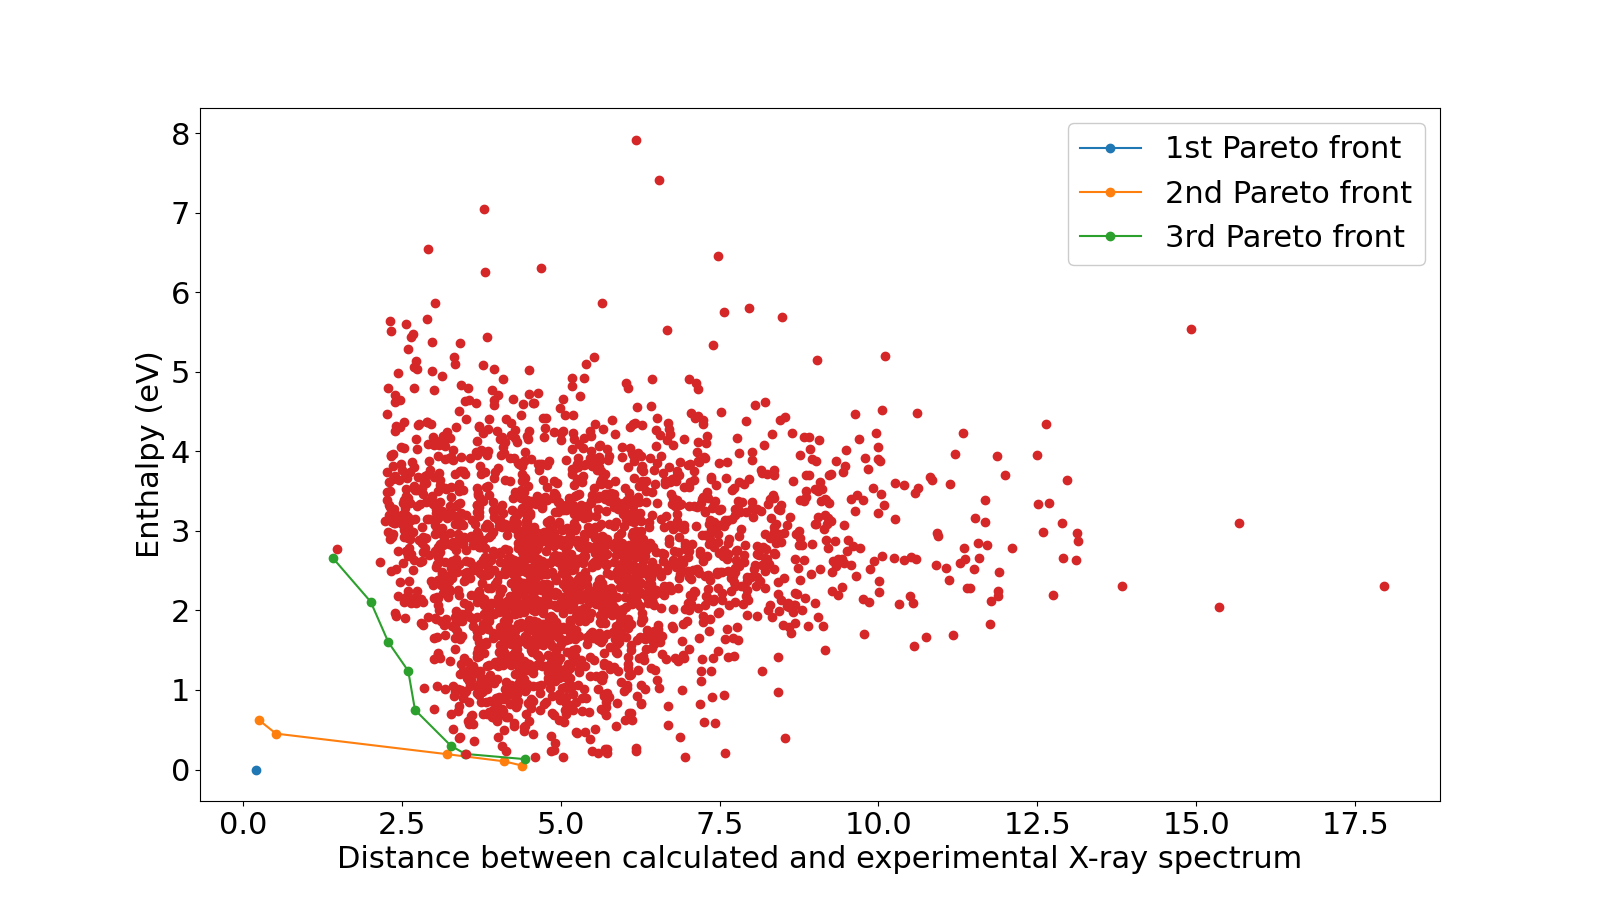
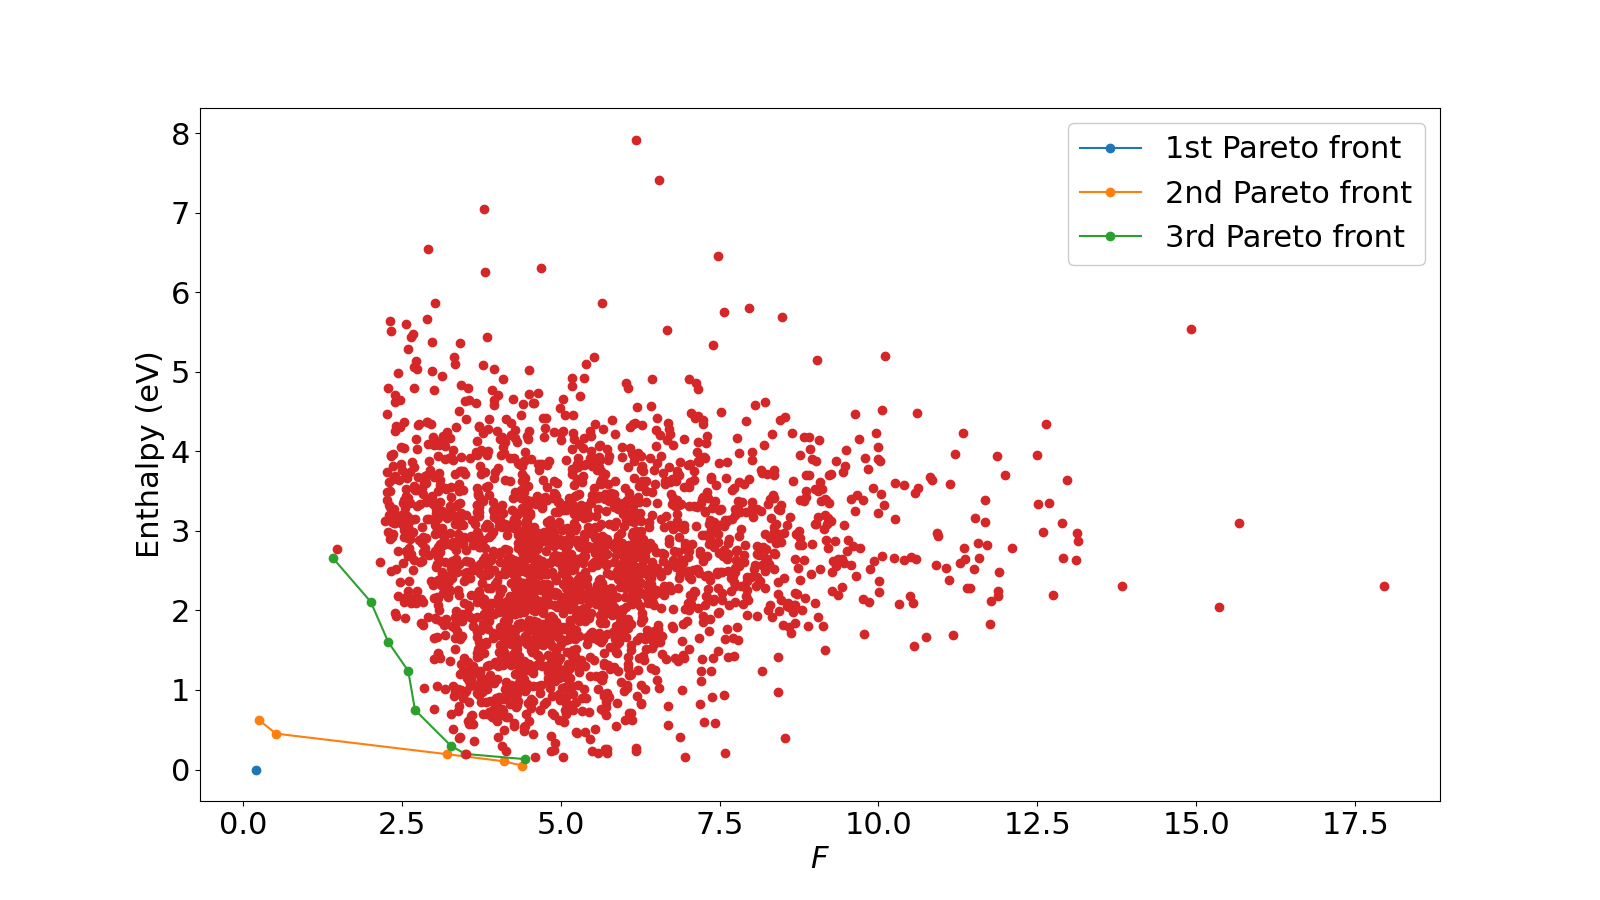
Now pareto picture can be used also in the single crystal case

Changed region(s): [[0.2188, 0.9333, 0.8125, 0.9644]]

diff --git a/xrpostproc/pareto_picture/pareto_picture.py b/xrpostproc/pareto_picture/pareto_picture.py
@@ -18,12 +18,13 @@ plt.rcParams.update({'font.size': 22})
 # input parameters
 wavelength = 1.5406
 work_dir = 'KTaWO6_0gpa'
-spectrum_file = 'subtracted_KTaWO6_0GPa.txt'
+spectrum_file = 'subtracted_KTaWO6_0GPa.txt'        # None for single crystal
 
-poscars_iterator = iterator_poscar_file(os.path.join(work_dir, 'goodStructures_POSCARS'))
+if spectrum_file:
+    poscars_iterator = iterator_poscar_file(os.path.join(work_dir, 'goodStructures_POSCARS'))
 
-# in this folder I will save the produced pictures
-os.mkdir(os.path.join(work_dir, 'pareto_fronts'))
+    # in this folder I will save the produced pictures
+    os.mkdir(os.path.join(work_dir, 'pareto_fronts'))
 
 p_frontsX, p_frontsY = [[]], [[]]
 with open(os.path.join(work_dir, 'goodStructures'), 'r') as f:
@@ -44,14 +45,15 @@ with open(os.path.join(work_dir, 'goodStructures'), 'r') as f:
                 p_frontsY[rank].append(enthalpy)
                 p_frontsX[rank].append(xraydistance)
 
-                poscar_string = next(poscars_iterator)
-                if ID == poscar_string.split()[0]:
-                    if rank < 3:
-                        plot_against_experiment(poscar_string, os.path.join(work_dir, spectrum_file), wavelength,
-                                                os.path.join(work_dir, 'pareto_fronts'), rank + 1,
-                                                xraydistance, enthalpy)
-                else:
-                    raise ValueError('Structure IDs in the two input files do not match.')
+                if spectrum_file:
+                    poscar_string = next(poscars_iterator)
+                    if ID == poscar_string.split()[0]:
+                        if rank < 3:
+                            plot_against_experiment(poscar_string, os.path.join(work_dir, spectrum_file), wavelength,
+                                                    os.path.join(work_dir, 'pareto_fronts'), rank + 1,
+                                                    xraydistance, enthalpy)
+                    else:
+                        raise ValueError('Structure IDs in the two input files do not match.')
 
 plt.figure(figsize=(16, 9))
 ordinal = lambda n: "%d%s" % (n, "tsnrhtdd"[(n / 10 % 10 != 1)*(n % 10 < 4) * n % 10::4])
@@ -72,9 +74,9 @@ for i, (frontX, frontY) in enumerate(zip(p_frontsX, p_frontsY)):
 
 plt.plot(X, Y, 'o')
 plt.ylabel('Enthalpy (eV)')
-plt.xlabel('Distance between calculated and experimental X-ray spectrum')
-# plt.xlim(-0.2, 5)
-# plt.ylim(2.5, 8)
+plt.xlabel('$F$')
+# plt.xlim(0, 4)
+# plt.ylim(-53, -20)
 plt.legend(loc='upper right', framealpha=1)
 
 # plt.show()
